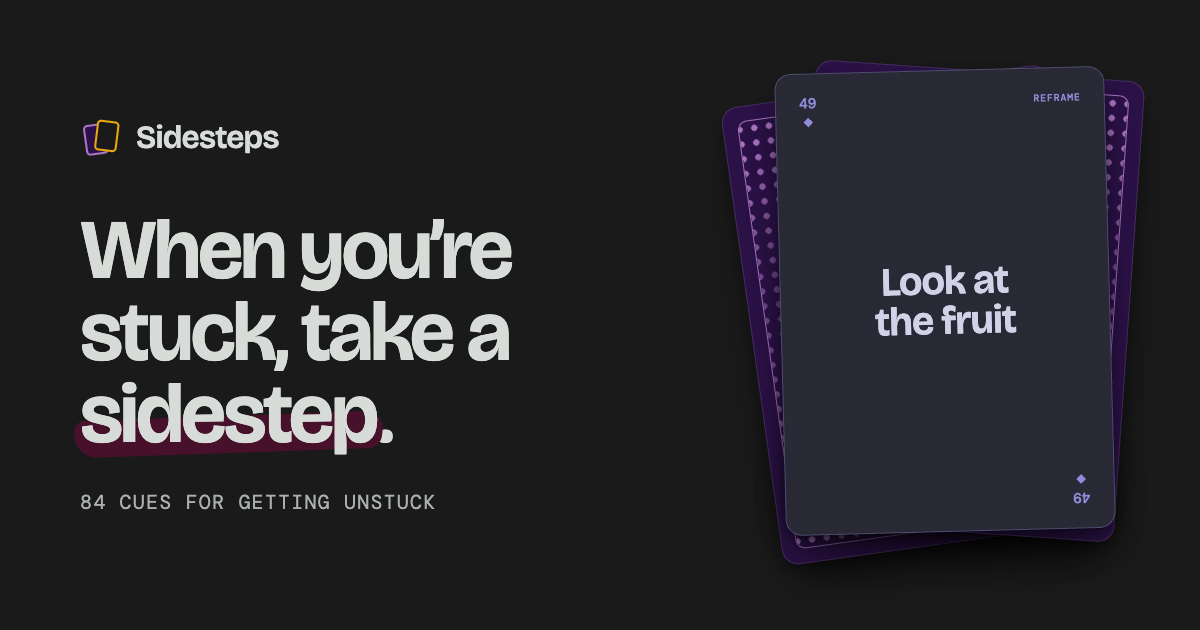
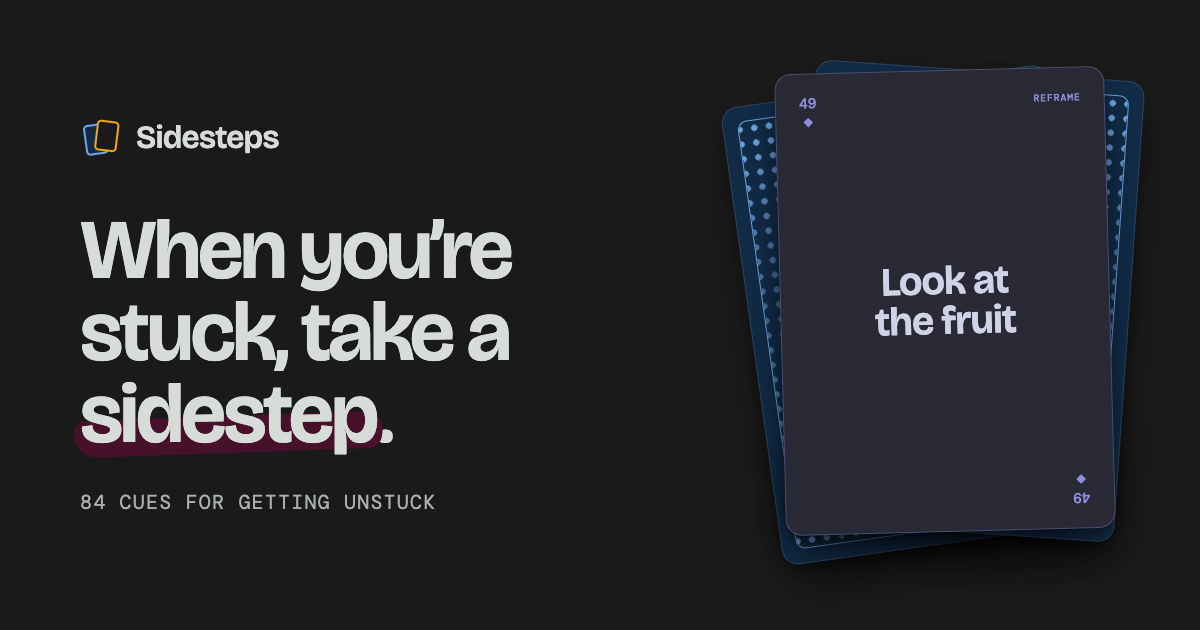
style: blue card backs
Swap the purple card backs for Nimbus blue-bg with light-blue dots, and
match the favicon and share image.

diff --git a/src/styles/global.css b/src/styles/global.css
@@ -29,9 +29,9 @@
   --accent-soft: #2b1147;
   --pop: #47112b;
 
-  --back: #2b1147;
-  --back-deep: #200c36;
-  --back-line: #ab75c3;
+  --back: #112b47;
+  --back-deep: #0c2038;
+  --back-line: #70a5e1;
 
   --card-base: #161616;
   --card-text: #eef0ec;
